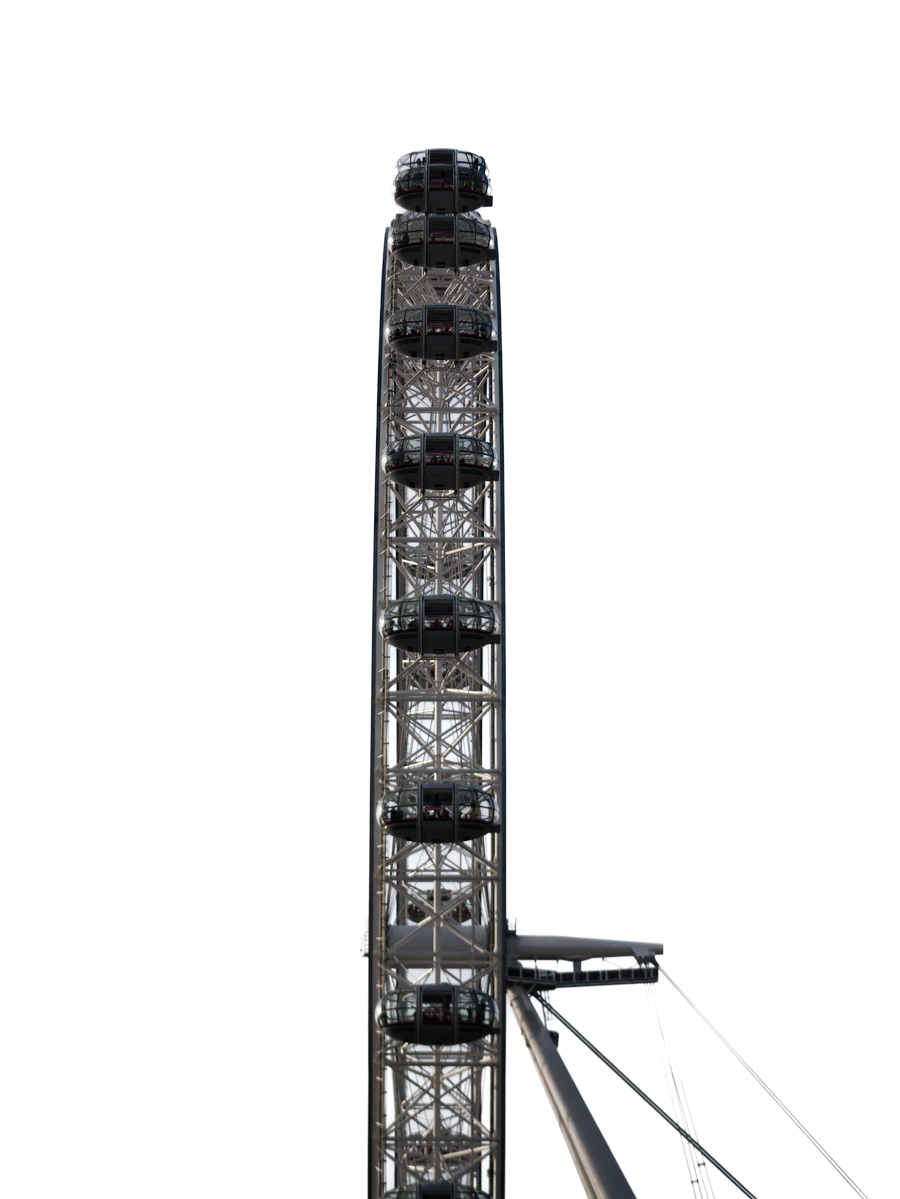
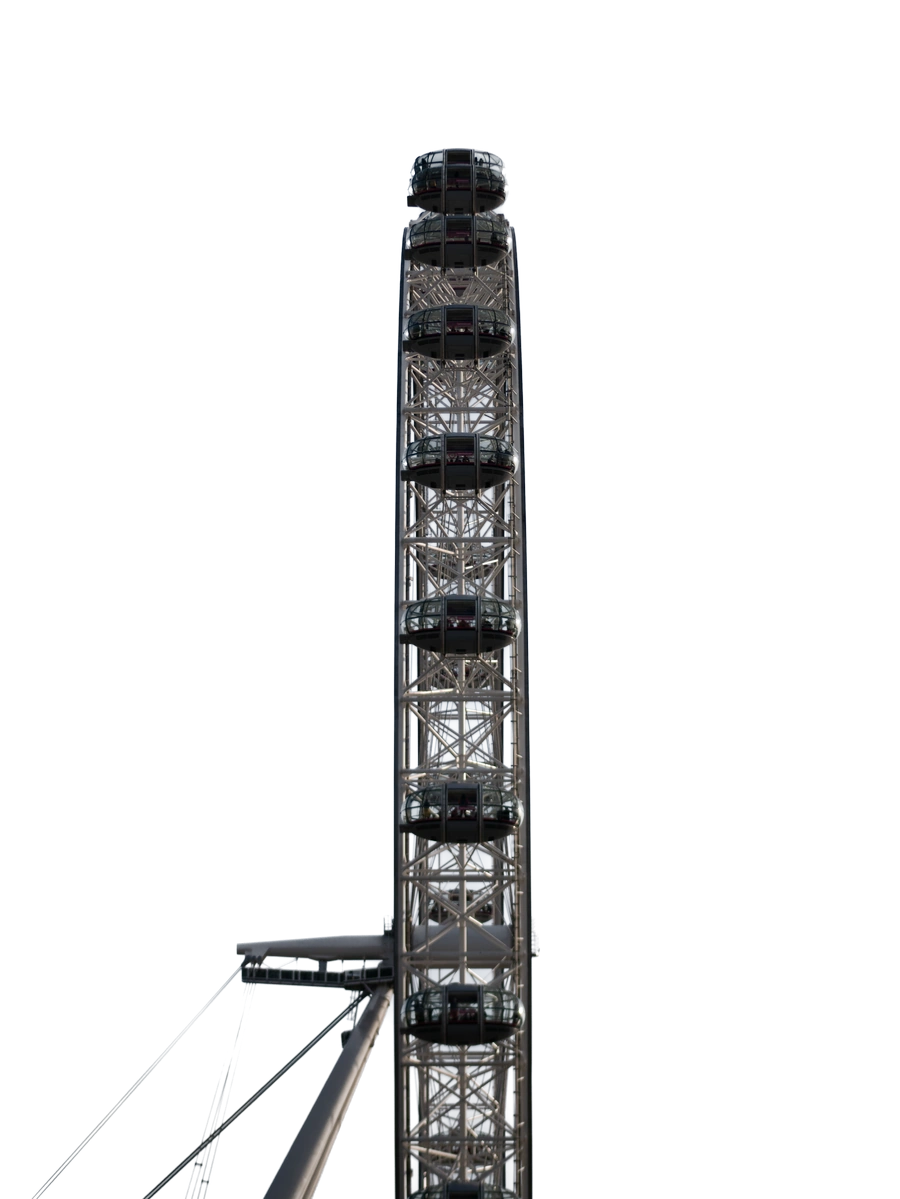
Stand the eye the way round it was shot
The frame was flipped left for right when it landed, on the plate's argument:
the subject occupies the left three-fifths of the file and the right two-fifths
is empty sky, so anchored bottom-right unflipped the corner holds none of it.
That was a decision about the photograph and it was not one to make here, so it
is reverted — `mirror=False`, the ladder rebuilt off the negative as given.

--eye-x does the job the flip was doing, which is the right place for it: it is
the dead margin being pushed off the right-hand edge of the page rather than
folded round to the other side of the picture. -156px is 0.401 of --eye-w on the
1920x1080 frame, which puts the cable stays on the page's edge with nothing empty
outside them. The mast then stands against that edge with the leg and the stays
leaning in, which is the car's arrangement rather than the plate's, reached
without touching the file.

Same length-against-a-share caveat as --car-x, and the gentle version of it: too
tall a window and the margin outgrows the offset, so a gutter of empty paper
opens between the stays and the edge — 52px at a 1440 fold, measured. The car's
version of that failure brings a cut edge back; this one only ever moves white.

Nothing else moves. The grade is untouched, --eye-fill stays at 0.36 (the mast is
the same fraction of the frame either way round, so the ceiling the car sets is
unchanged), and the eye still needs no dissolve: its two inner edges are its left
[…]

diff --git a/portfolio/styles.css b/portfolio/styles.css
@@ -284,12 +284,19 @@
      as shot there is a tenth of a frame of empty sky above the mast, so the top
      of the picture is not an edge and has nothing to stand in.
 
-     The frame is mirrored in build-plate.py — see the eye paragraph there. What
-     that buys here is the one thing the car needed --car-fade for and this does
-     not: after the flip the boarding platform and the A-frame leg run down into
-     the corner and the mast rises back into the page, and the two inner edges of
-     the picture, its left and its top, are empty sky. So the eye has no dissolve.
-     It is the plate's situation, not the car's, in the car's corner geometry. */
+     The frame is NOT mirrored — see the eye paragraph in build-plate.py, where the
+     plate's flip-it argument is set out for this frame and declined. What that
+     leaves for this end is --eye-x, which does the job the flip would have: the
+     subject occupies the left three-fifths of the file and the right two-fifths is
+     empty sky, so the dead margin is pushed off the page rather than folded to the
+     other side of the picture.
+
+     What it costs is nothing the car did not already cost. The picture's two inner
+     edges are its left and its top, and in this frame both are empty sky — 4.5% of
+     the width outside the stays, a tenth of the height above the mast — so there is
+     nothing there to cut and the eye has no dissolve. That is the plate's
+     situation, not the car's, in the car's corner geometry, and it does not depend
+     on which way round the negative is. */
   --eye-opacity: 0.12;  /* --plate-opacity's judgement a third time, and the same
                            answer. Its own variable for the reason --car-opacity is
                            its own: three pictures with three different amounts of
@@ -320,14 +327,25 @@
                         /* the ceiling on --plate-w and --car-w, for the third
                            time and the same reason: 2800px is the top rung
                            index.html will fetch.                              */
-  --eye-x: 0px;         /* out from the RIGHT edge of the page, positive → left.
-                           0 and not the car's negative, and the difference is the
-                           frame rather than the taste: this one carries 4.5% of
-                           its own width of empty sky outside the cable stays, so
-                           at 0 the stays already stop about 17px short of the page
-                           edge on the frame this was tuned on. That gutter is the
-                           file's, and it is why the two corners on the right do
-                           not both jam into the same margin.                  */
+  --eye-x: -156px;      /* out from the RIGHT edge of the page, positive → left.
+                           Negative, like the car's, and doing the same KIND of job
+                           — carrying part of the file off the page rather than
+                           nudging the composition — but for the opposite content.
+                           The car pushes a cut edge off; this pushes empty sky off.
+                           The subject ends at 59.9% of the file's width and the
+                           remaining 40.1% is sky, so on the 1920×1080 frame this
+                           was tuned on 0.401 × 389px = 156px puts the cable stays
+                           on the page's right edge with nothing dead outside them.
+                           This is the value the frame not being mirrored is paid
+                           for in: see the eye paragraph in build-plate.py.
+                           A length against a share again, and the failure is the
+                           gentle one this time. Too tall a window and the margin
+                           outgrows the offset, so a gutter opens between the stays
+                           and the edge — 52px at a 1440 fold, which is empty paper
+                           rather than a cut. Too short and a little more sky than
+                           intended goes off the side, which is nothing at all. The
+                           car's version of this reintroduces a visible edge; this
+                           one only ever moves white.                          */
   --eye-y: 0px;         /* up from --fold, positive → up; negative hangs it past
                            the fold. 0 IS the rule, and it is a variable for the
                            reason --plate-y is: so the rule can be broken by hand
@@ -1100,10 +1118,11 @@ body::after {
    edge doing both jobs, exactly as in the plate's block.
 
    And it takes from the plate the thing the car could not have: no soft edge
-   anywhere. Its two inner edges are the left and the top, and after the mirror
-   both are empty sky — see --eye-fill's neighbours in :root and the eye paragraph
-   in build-plate.py. There is nothing there to cut, so there is no mask here, and
-   the ramp the car needs on its gantry would only be fading out sky.
+   anywhere. Its two inner edges are the left and the top, and in this frame both
+   are empty sky — see --eye-x's block in :root, and the eye paragraph in
+   build-plate.py for why the frame is the way round it is. There is nothing there
+   to cut, so there is no mask here, and the ramp the car needs on its gantry would
+   only be fading out sky.
 
    z-index -1, out of flow, pointer-events none: as the other two. It is under the
    type and under the cut title, which is the one thing on the page that shares

diff --git a/design/plate/plate-tuner.html b/design/plate/plate-tuner.html
@@ -321,16 +321,17 @@ var CAR = [
 
 /* The eye is the car's anchoring — one corner, one rule, sized against the fold —
    with the plate's geometry at the bottom of the page and the plate's want of a
-   dissolve, which is none: after the mirror both its inner edges are empty sky. So
-   it is the car's list with the fade row dropped and the two vertical rows
-   pointing the other way. */
+   dissolve, which is none: both its inner edges are empty sky in this frame. So it
+   is the car's list with the fade row dropped and the two vertical rows pointing
+   the other way. `out from right` is the row that matters most here, because the
+   frame is not mirrored and it is what stands the subject in the corner. */
 var EYE = [
   { k: "--eye-opacity", label: "opacity", unit: "", min: 0, max: 0.6, step: 0.005, dp: 3, dark: true,
     tip: "Its own, as the other two are their own, and holding the same number today.\nThis frame is a steel lattice with sky through it rather than a solid mass, so it carries less ink than either at the same setting — which is an argument for reading it against them here rather than assuming the shared value is still right." },
   { k: "--eye-fill", label: "width ÷ fold", unit: "", min: 0.1, max: 1.2, step: 0.001, dp: 3,
     tip: "Width as a share of the first screen, as --car-fill is.\nWhat it really sets is how tall the mast stands: the mast is 87.6% of the frame, so 1.167× this width. It has a ceiling the car sets rather than the file — much past 0.39 the top of the mast arrives under the gondola and the two read as one machine. Watch the gap between them, not the size." },
   { k: "--eye-x", label: "out from right", unit: "px", min: -400, max: 400, step: 1, dp: 0,
-    tip: "Positive moves it left, in off the page's right edge.\nIt starts at 0 where the car starts negative: this frame carries 4.5% of its own width of empty sky outside the cable stays, so the corner already has a gutter of the file's own." },
+    tip: "Positive moves it left, in off the page's right edge.\nNegative today, and load-bearing rather than a nudge: the frame is not mirrored, so the subject sits in the left three-fifths of the file and the right two-fifths is sky. This is what pushes that dead margin off the page and puts the cable stays in the corner. Drag it toward 0 and the whole picture walks in off the edge, leaving white where the corner should be." },
   { k: "--eye-y", label: "up from the fold", unit: "px", min: -1200, max: 1200, step: 1, dp: 0,
     tip: "Positive lifts it off --fold, the bottom of the first screen; negative hangs it past that line.\nUnlike the plate's, this does not resize anything — --eye-fill is a share of the fold, not of what --eye-y leaves." },
   { k: "--eye-crop", label: "crop the foot", unit: "", min: 0, max: 0.9, step: 0.005, dp: 3,

diff --git a/design/plate/build-plate.py b/design/plate/build-plate.py
@@ -62,13 +62,18 @@ It is one line either way; what matters is that each frame is stood in its corne
 here, once, and every measurement downstream then describes the picture that
 ships.
 
-The eye is mirrored, and it is the plate's argument again in the opposite corner.
-As shot the mast of capsules stands left of centre and the boarding platform, the
-A-frame leg and its cable stays run down and away to the LEFT of it, leaving the
-right two-fifths of the frame empty sky — anchored bottom-right unflipped, the
-corner would hold nothing and the picture would sit marooned in the middle of the
-page pointing at the plate. Flipped, the leg drives into the corner and the mast
-rises back into the page.
+The eye is not mirrored. It is the frame as shot, and the frame as shot is what
+was asked for — which is worth writing down here because this is the one property
+on Picture that is a decision, and the argument the plate makes is available for
+this one too and was declined. That argument would run: the mast of capsules
+stands left of centre and the boarding platform, the A-frame leg and its cable
+stays run down and away to the LEFT of it, so the right two-fifths of the frame is
+empty sky and the corner the picture is anchored to holds none of the subject.
+What answers that is --eye-x in styles.css rather than a flip here: the dead
+margin is pushed off the right-hand edge of the page, which puts the stays in the
+corner while leaving the photograph the way round it was taken. The mast then
+stands near the page's edge with the leg leaning in, which is the car's
+arrangement rather than the plate's, arrived at without touching the negative.
 
 There is no vignette and no soft rectangular edge. An earlier cut dissolved the
 top and right edges into the page and it read as a lit corner with a building
@@ -457,7 +462,7 @@ PICTURES = {
                      grades=PLATE_GRADES),
     "car":   Picture(stem="car",   corner="top-right",    mirror=False,
                      grades=CAR_GRADES),
-    "eye":   Picture(stem="eye",   corner="bottom-right", mirror=True,
+    "eye":   Picture(stem="eye",   corner="bottom-right", mirror=False,
                      grades=EYE_GRADES),
 }
 DEFAULT_PICTURE = "plate"
